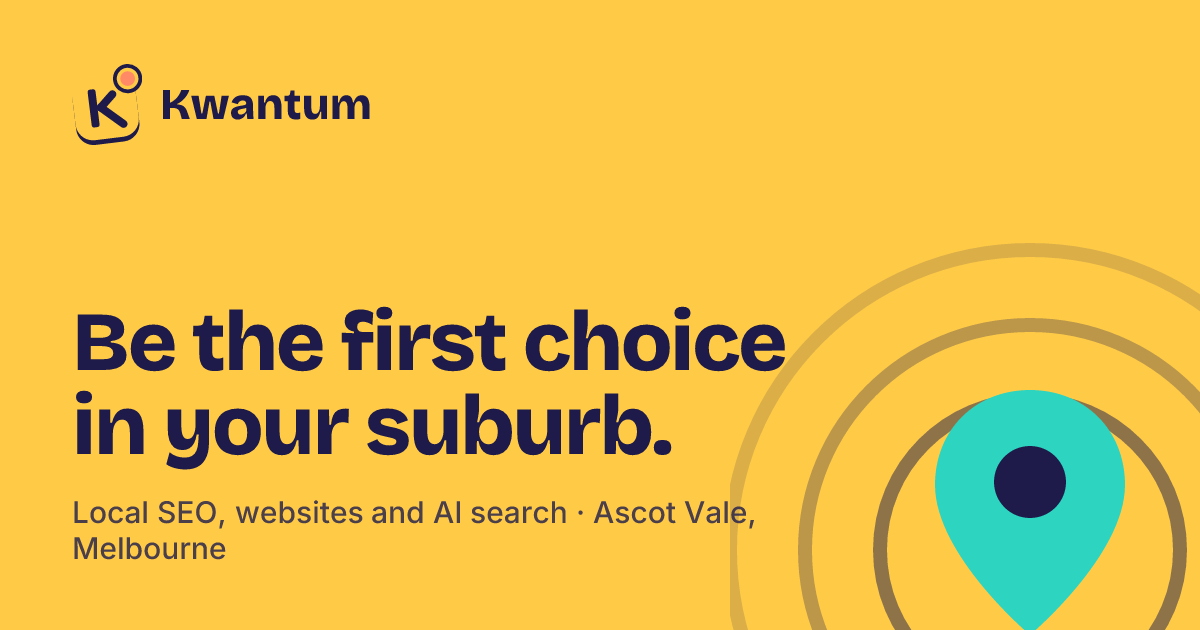
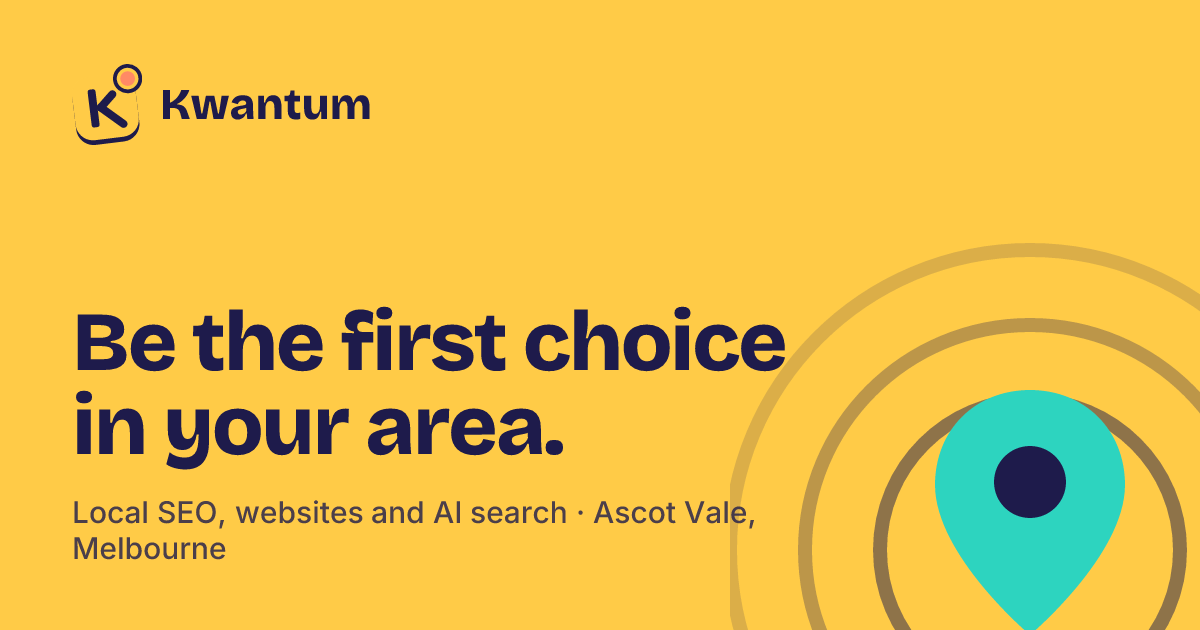
Hero: rotating promises, 'first choice in your area', Australia-wide suburbs
The H1 is now 'Be the first choice in your area.' with a highlighted line
above it cycling through four promises. The suburb strip and hero map draw
random suburbs and searches from around Australia on each visit; they stay
decorative (aria-hidden, no crawlable list) so they never read as a service
area. 'Melbourne' removed from the hero intro.

Changed region(s): [[0.3083, 0.6032, 0.555, 0.7238]]

diff --git a/src/lib/au-suburbs.ts b/src/lib/au-suburbs.ts
@@ -1,0 +1,20 @@
+// Suburbs and towns from every state and territory, used only for decorative motion (the hero
+// map and the scrolling strip) to show "wherever your customers search". This is NOT a service
+// area: the real service area lives in src/content/areas/ and must match the Google Business
+// Profile. Keep anything rendered from this list aria-hidden and out of crawlable text.
+export const AU_SUBURBS = [
+  'Ascot Vale VIC', 'Moonee Ponds VIC', 'Fitzroy VIC', 'Geelong VIC', 'Ballarat VIC', 'Bendigo VIC',
+  'Newtown NSW', 'Surry Hills NSW', 'Parramatta NSW', 'Penrith NSW', 'Wollongong NSW', 'Byron Bay NSW',
+  'Fortitude Valley QLD', 'West End QLD', 'Southport QLD', 'Noosa Heads QLD', 'Toowoomba QLD', 'Cairns QLD',
+  'Fremantle WA', 'Subiaco WA', 'Joondalup WA', 'Scarborough WA', 'Mandurah WA',
+  'Glenelg SA', 'Norwood SA', 'Prospect SA', 'Mount Barker SA',
+  'Sandy Bay TAS', 'Launceston TAS', 'Kingston TAS',
+  'Braddon ACT', 'Belconnen ACT',
+  'Parap NT', 'Alice Springs NT',
+];
+
+// Trades and shops people search for, paired with a suburb in the hero's search bubble.
+export const SEARCH_TERMS = [
+  'plumber', 'electrician', 'cafe', 'dentist', 'accountant', 'physio', 'florist', 'mechanic',
+  'hairdresser', 'locksmith', 'bakery', 'vet', 'landscaper', 'builder', 'pet groomer',
+];
